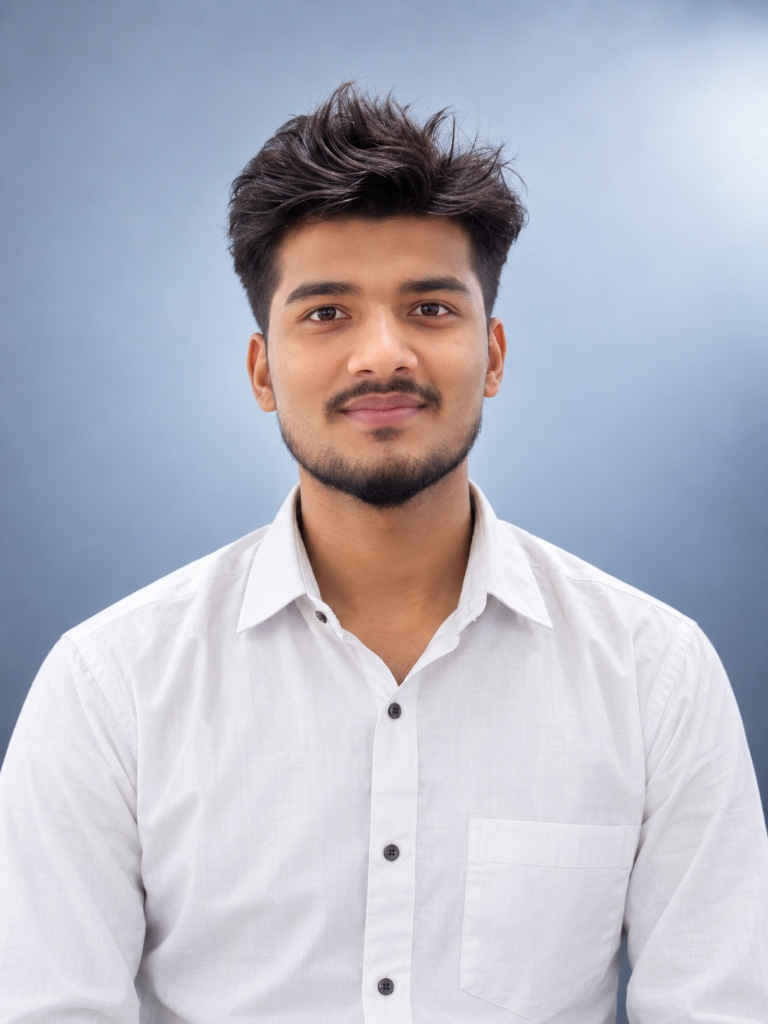
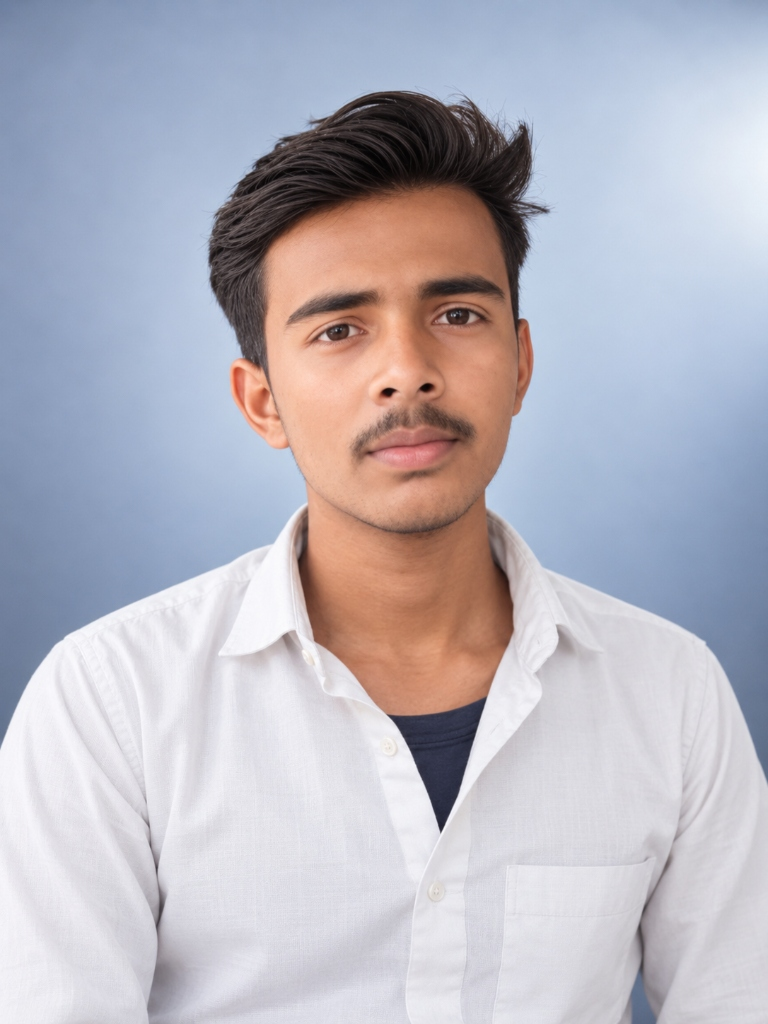
Update Student Success student names capitalization and Mohit Kushwaha photo

diff --git a/pages/success.html b/pages/success.html
@@ -354,12 +354,12 @@
                     </div>
                 </div>
 
-                <!-- 9. kartikey Shrivtastav -->
+                <!-- 9. Kartikey Shrivtastav -->
                 <div class="student-success-card">
                     <div class="student-img-wrapper">
-                        <img src="../images/students/kartikey_shrivtastav.jpg" loading="lazy" alt="kartikey Shrivtastav">
+                        <img src="../images/students/kartikey_shrivtastav.jpg" loading="lazy" alt="Kartikey Shrivtastav">
                     </div>
-                    <h3 class="student-name-title">kartikey Shrivtastav</h3>
+                    <h3 class="student-name-title">Kartikey Shrivtastav</h3>
                     <i class="fa-solid fa-quote-left quote-icon-small"></i>
                     <p class="student-message-text">
                         "My journey at Pointer IT Infotech helped me discover my potential and prepare myself for the professional world"
@@ -370,12 +370,12 @@
                     </div>
                 </div>
 
-                <!-- 10. Vishal yadav -->
+                <!-- 10. Vishal Yadav -->
                 <div class="student-success-card">
                     <div class="student-img-wrapper">
-                        <img src="../images/students/vishal_yadav.jpg" loading="lazy" alt="Vishal yadav">
+                        <img src="../images/students/vishal_yadav.jpg" loading="lazy" alt="Vishal Yadav">
                     </div>
-                    <h3 class="student-name-title">Vishal yadav</h3>
+                    <h3 class="student-name-title">Vishal Yadav</h3>
                     <i class="fa-solid fa-quote-left quote-icon-small"></i>
                     <p class="student-message-text">
                         "The knowledge I gained here has become a strong foundation for my future career."
@@ -386,12 +386,12 @@
                     </div>
                 </div>
 
-                <!-- 11. aadarsh kumar yadav -->
+                <!-- 11. Aadarsh Kumar Yadav -->
                 <div class="student-success-card">
                     <div class="student-img-wrapper">
-                        <img src="../images/students/aadarsh_kumar_yadav.jpg" loading="lazy" alt="aadarsh kumar yadav">
+                        <img src="../images/students/aadarsh_kumar_yadav.jpg" loading="lazy" alt="Aadarsh Kumar Yadav">
                     </div>
-                    <h3 class="student-name-title">aadarsh kumar yadav</h3>
+                    <h3 class="student-name-title">Aadarsh Kumar Yadav</h3>
                     <i class="fa-solid fa-quote-left quote-icon-small"></i>
                     <p class="student-message-text">
                         "Pointer IT Infotech turned my interest in technology into practical skills that I can confidently use today"
@@ -418,12 +418,12 @@
                     </div>
                 </div>
 
-                <!-- 13. Mohit kushwaha -->
+                <!-- 13. Mohit Kushwaha -->
                 <div class="student-success-card">
                     <div class="student-img-wrapper">
-                        <img src="../images/students/mohit_kushwaha.jpg" loading="lazy" alt="Mohit kushwaha">
+                        <img src="../images/students/mohit_kushwaha.jpg" loading="lazy" alt="Mohit Kushwaha">
                     </div>
-                    <h3 class="student-name-title">Mohit kushwaha</h3>
+                    <h3 class="student-name-title">Mohit Kushwaha</h3>
                     <i class="fa-solid fa-quote-left quote-icon-small"></i>
                     <p class="student-message-text">
                         "The training I received here gave me the confidence to explore new opportunities and build a better future"
@@ -434,12 +434,12 @@
                     </div>
                 </div>
 
-                <!-- 14. anuj yadav -->
+                <!-- 14. Anuj Yadav -->
                 <div class="student-success-card">
                     <div class="student-img-wrapper">
-                        <img src="../images/students/anuj_yadav.jpg" loading="lazy" alt="anuj yadav">
+                        <img src="../images/students/anuj_yadav.jpg" loading="lazy" alt="Anuj Yadav">
                     </div>
-                    <h3 class="student-name-title">anuj yadav</h3>
+                    <h3 class="student-name-title">Anuj Yadav</h3>
                     <i class="fa-solid fa-quote-left quote-icon-small"></i>
                     <p class="student-message-text">
                         "I am grateful for the knowledge, encouragement, and support that helped me move one step closer to my career goals."
